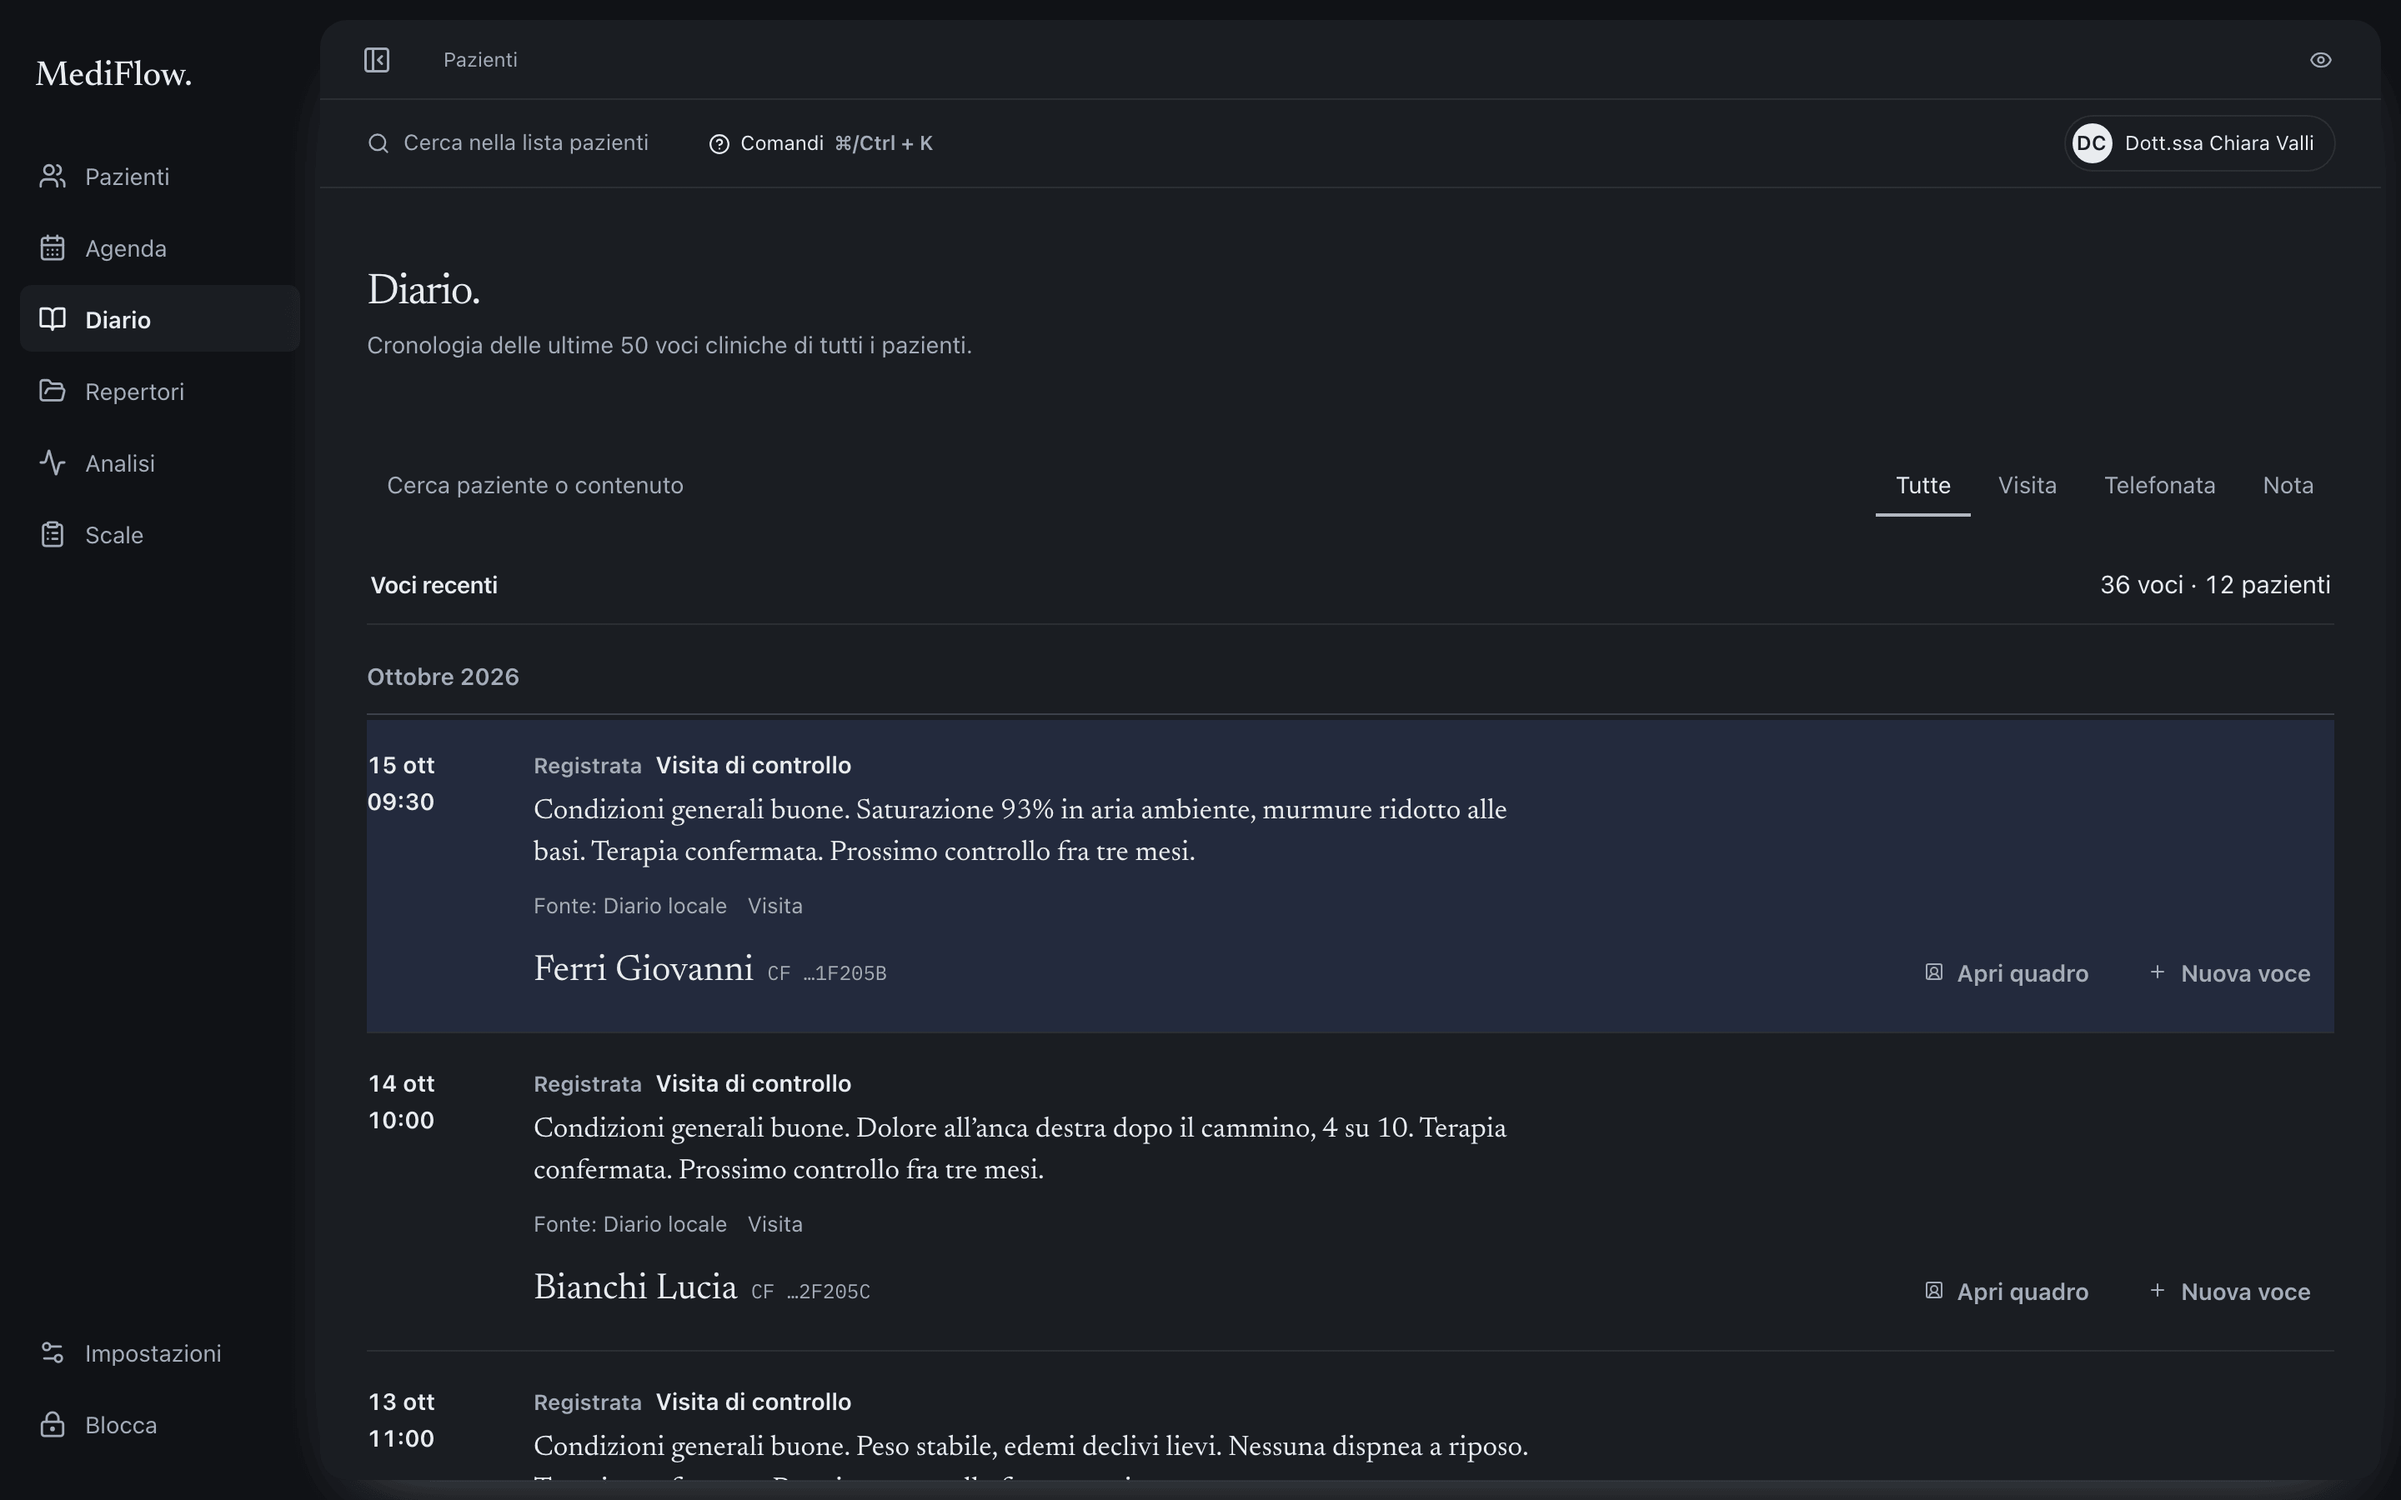
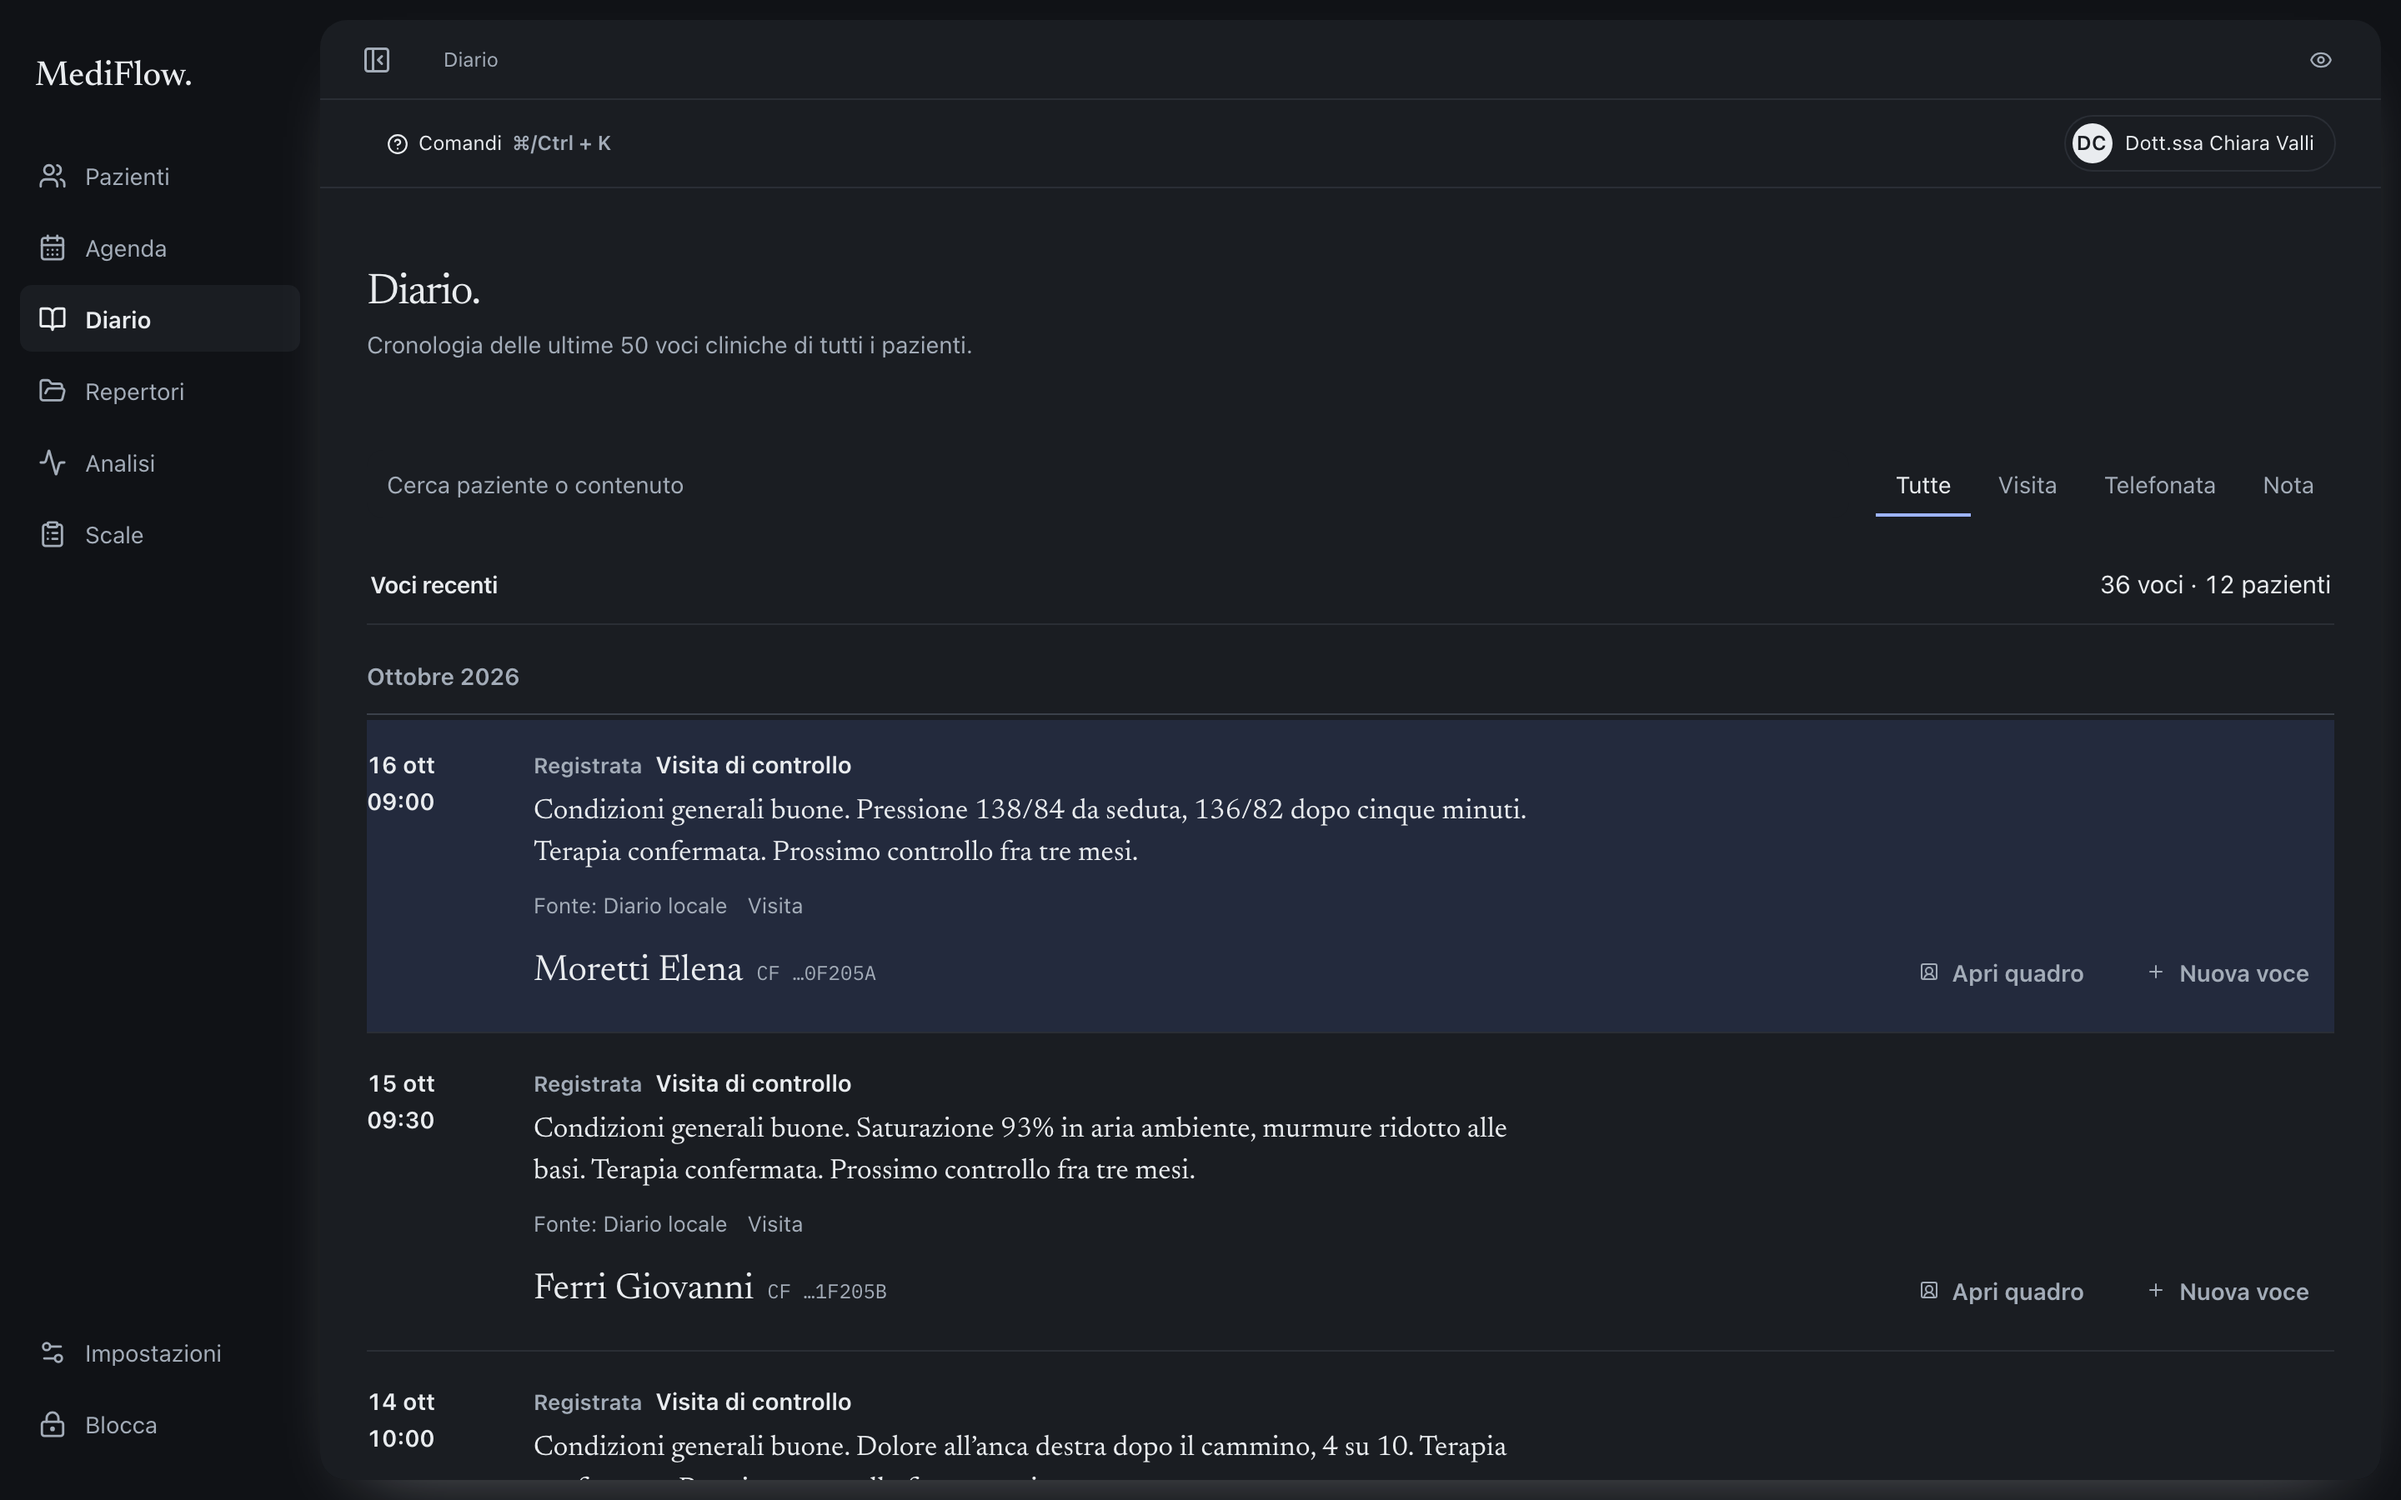
docs: refresh product captures from integrated Punto d’inchiostro UI

diff --git a/README.md b/README.md
@@ -39,8 +39,12 @@ non sono la condizione per usare il gestionale.
 </picture>
 
 *La lista pazienti: un punto da cui riprendere la cartella e il lavoro da
-seguire. Schermata del runtime Web locale acquisita il 16 ottobre 2026, con
-persone inventate; segue il tema chiaro o scuro del tuo GitHub.*
+seguire. Le schermate attuali provengono dal runtime Web di produzione della
+[revisione di sviluppo `31d7a3268ff7`](https://github.com/Wulfgardr/mediflow/tree/31d7a3268ff7f38aebad40afc707f6b0b74762b1),
+acquisito il 16 ottobre 2026 con dodici persone inventate. Questa revisione
+è successiva al tag `v0.9.0`: le immagini non descrivono gli archivi della
+release distribuita. Seguono il tema chiaro o scuro del tuo GitHub; dimensioni
+e provenienza sono nel [manifest](./docs/images/getmediflow-090/manifest.json).*
 
 > **MediFlow 0.9.0: release sorgente per runtime locale Web e Headless.**
 >
@@ -165,11 +169,11 @@ Il diario raccoglie le voci di tutti i pazienti, con fonte e stato di ciascuna.
 
 <picture>
   <source media="(prefers-color-scheme: dark)" srcset="./docs/images/getmediflow-090/repertori-dark.png">
-  <img src="./docs/images/getmediflow-090/repertori-light.png" alt="Repertori: AIFA con 160.128 confezioni, esenzioni e protesica da importare, ICD-11 pronto">
+  <img src="./docs/images/getmediflow-090/repertori-light.png" alt="Repertori: ICD-11 incluso; AIFA, esenzioni e protesica ancora da importare nella fixture isolata">
 </picture>
 
-I repertori dicono cosa è disponibile in locale e cosa manca: qui il catalogo
-AIFA è stato importato dal sito dell’agenzia, ICD-11 è incluso.
+I repertori dicono cosa è disponibile in locale e cosa manca: in questa
+fixture ICD-11 è incluso; AIFA, esenzioni e protesica restano da importare.
 
 <picture>
   <source media="(prefers-color-scheme: dark)" srcset="./docs/images/getmediflow-090/analisi-dark.png">
@@ -189,7 +193,10 @@ modelli e non genera testo. Tutte le schermate usano persone inventate.
 <details>
 <summary><strong>Guarda la revisione documentale</strong></summary>
 
-![Documenti, provenienza e passaggi da rivedere](./docs/images/getmediflow-086/documents.png)
+<picture>
+  <source media="(prefers-color-scheme: dark)" srcset="./docs/images/getmediflow-090/documents-dark.png">
+  <img src="./docs/images/getmediflow-090/documents-light.png" alt="Documenti della persona inventata, con originale e revisione separati">
+</picture>
 
 Le fonti restano vicine alle informazioni da riesaminare. Anche qui i dati
 sono sintetici: la schermata documentale non dimostra che siano stati eseguiti
@@ -225,17 +232,23 @@ un’autorizzazione a scegliere liberamente provider, endpoint o modalità d’i
 Ollama può servire i primi tre percorsi, mentre ATHENA/MLX è opzionale e
 riservata a Treatment Reasoning, con configurazione e verifiche locali proprie.
 
-![Pannello Treatment Reasoning con ATHENA MLX locale, fonti e bozza finale da rivedere](./docs/images/getmediflow-086/athena-flow.png)
+<picture>
+  <source media="(prefers-color-scheme: dark)" srcset="./docs/images/getmediflow-090/ragionamento-terapeutico-dark.png">
+  <img src="./docs/images/getmediflow-090/ragionamento-terapeutico-light.png" alt="Ragionamento terapeutico: proposta da rivedere, cautele, elementi a sostegno e fonti vicine alle affermazioni">
+</picture>
 
-La riproduzione riprende il pannello MediFlow nello stato riuscito e usa un
-caso interamente sintetico con sei terapie e relativi codici ATC. Il percorso
-interattivo completo su [Get MediFlow](https://getmediflow.dev/#fabric)
-permette di fermarsi su modello, fonti, bozza, preparazione e revisione.
-Treatment Intelligence rende leggibili raccomandazione, dati mancanti,
-evidenze, cautele, provenienza e tre percorsi proposti: follow-up
-dell’ACE-inibitore, riconciliazione terapeutica e rivalutazione del sintomo.
-ATHENA prepara soltanto il testo della revisione; il medico può usarlo,
-correggerlo o scartarlo, mentre terapie, percorsi e cartella restano invariati.
+UI reale della stessa revisione di sviluppo, acquisita sul bundle Web di
+produzione con la fixture E2E canonica: una persona e una terapia inventate,
+proposta fittizia intercettata, nessuna inferenza. Il viewport più alto mostra
+il gruppo completo senza ritagliare controlli; dimensioni e hash sono nel
+[manifest](./docs/images/getmediflow-090/manifest.json).
+
+Il risultato è una **Proposta**: indicazione da valutare, cautele, elementi a
+sostegno e azioni restano distinti. Le fonti sono vicine alle affermazioni;
+traccia e dettagli sono espandibili. La scelta del modello precede la
+conferma di paziente e ambulatorio. Il percorso illustrato su
+[Get MediFlow](https://getmediflow.dev/#fabric) usa dati inventati e non
+esegue inferenza. Nessuna proposta applica modifiche alla cartella.
 
 L’integrazione ChatGPT resta opzionale e spenta per impostazione predefinita.
 Il percorso esterno richiede configurazione, consenso e controlli pertinenti
@@ -439,7 +452,11 @@ autenticazione, selezione e attivazione esplicita nell’interfaccia fidata.
 Revoca, logout, cambio di selezione o scadenza chiudono l’autorizzazione, il
 *grant*, senza trasferirla all’agente.
 
-![Demo dell’accesso headless con worklist, polifarmacia e fonti nominate](./docs/images/getmediflow-086/headless-agent.png)
+![Illustrazione storica dell’accesso headless con worklist, polifarmacia e fonti nominate](./docs/images/getmediflow-086/headless-agent.png)
+
+*Illustrazione sintetica del 21 settembre 2026, conservata con la sua
+[provenienza storica](./docs/images/getmediflow-086/manifest.json); non è una
+cattura dell’interfaccia attuale né una sessione Codex collegata.*
 
 La schermata racconta una richiesta che non si risolve consultando una singola
 pagina: il client verifica le capacità concesse, scandisce una worklist,
